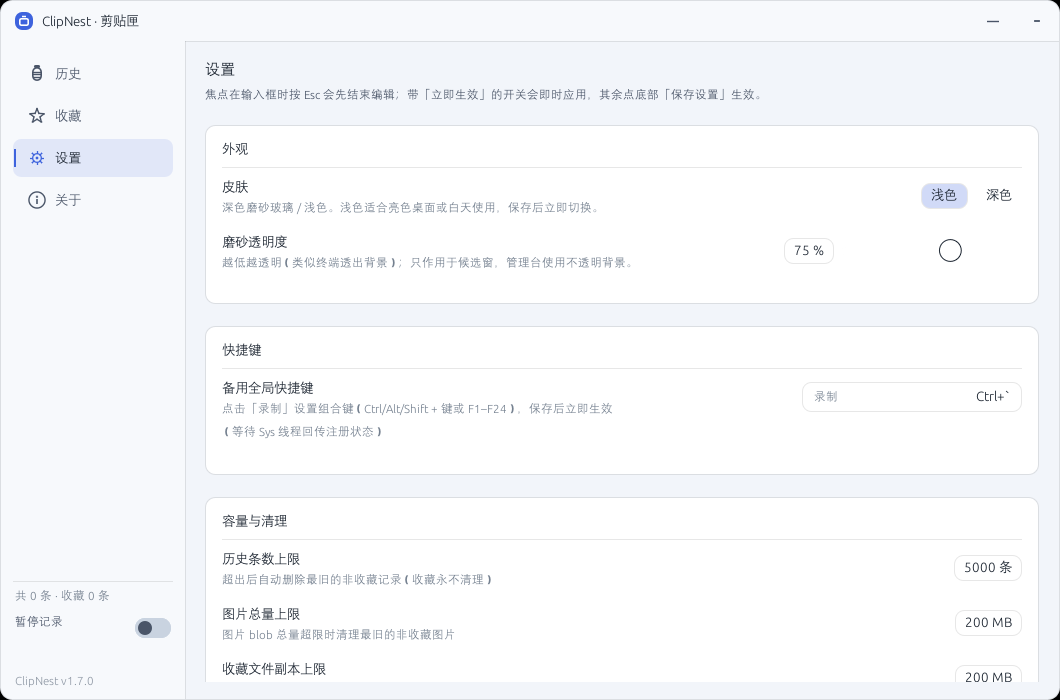
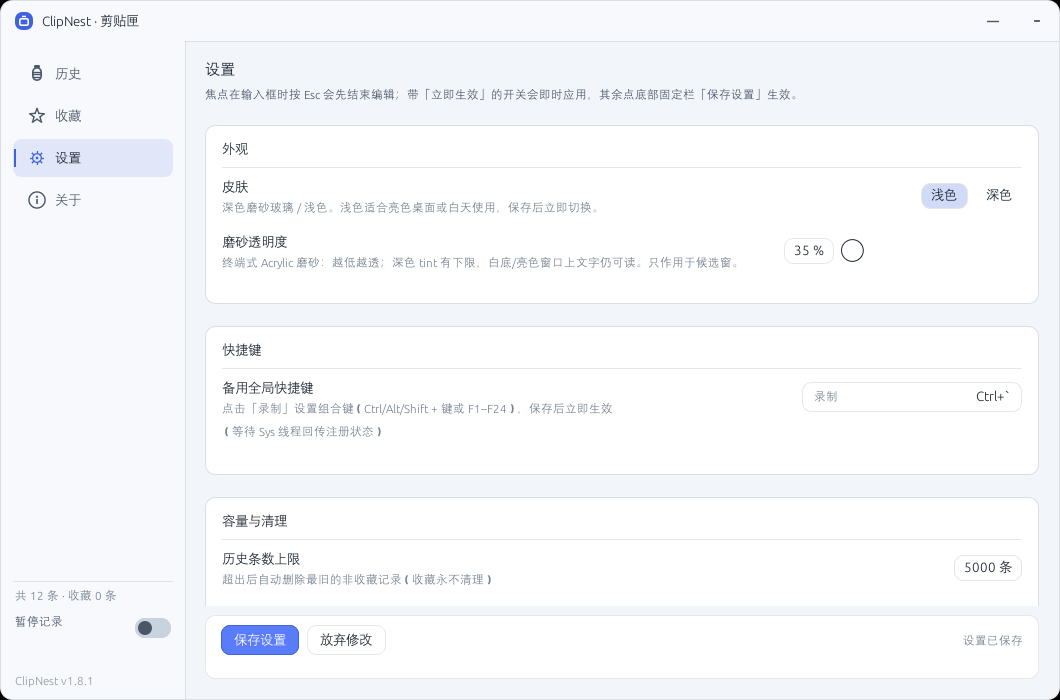
feat(settings): 设置页底部固定保存栏，不必滚动到底部 (v1.8.1)

diff --git a/src/ui/pages/settings.rs b/src/ui/pages/settings.rs
@@ -10,6 +10,11 @@ use eframe::egui::{self, Pos2, Rect, UiBuilder, Vec2};
 
 const MIB: f64 = 1024.0 * 1024.0;
 
+/// 底部固定保存栏高度（含卡片内边距）。
+const SAVE_BAR_HEIGHT: f32 = 64.0;
+/// 内容区与固定保存栏之间的留白。
+const SAVE_BAR_GAP: f32 = 12.0;
+
 /// 设置页入口。
 pub(crate) fn show(
     state: &mut UiState,
@@ -18,7 +23,9 @@ pub(crate) fn show(
     actions: &mut Vec<UiAction>,
 ) {
     let inner = rect.shrink(theme::PAGE_PAD);
-    ui.scope_builder(UiBuilder::new().max_rect(inner), |ui| {
+    let (content, footer) = split_page(inner);
+
+    ui.scope_builder(UiBuilder::new().max_rect(content), |ui| {
         egui::ScrollArea::vertical()
             .id_salt("settings_scroll")
             .auto_shrink([false, false])
@@ -27,7 +34,7 @@ pub(crate) fn show(
                 ui.label(theme::title("设置"));
                 ui.add_space(4.0);
                 ui.label(theme::aux(
-                    "焦点在输入框时按 Esc 会先结束编辑；带「立即生效」的开关会即时应用，其余点底部「保存设置」生效。",
+                    "焦点在输入框时按 Esc 会先结束编辑；带「立即生效」的开关会即时应用，其余点底部固定栏「保存设置」生效。",
                 ));
                 ui.add_space(18.0);
 
@@ -42,13 +49,26 @@ pub(crate) fn show(
                 ignore_section(state, ui);
                 ui.add_space(16.0);
                 data_section(state, ui, actions);
-                ui.add_space(20.0);
-                save_bar(state, ui, actions);
-                ui.add_space(12.0);
+                // 给滚动内容留出呼吸空间，避免最后一张卡片贴着固定栏。
+                ui.add_space(8.0);
             });
     });
+
+    save_bar(state, ui, footer, actions);
 }
 
+/// 把设置页内容区切成「可滚动内容 + 底部固定保存栏」。
+fn split_page(inner: Rect) -> (Rect, Rect) {
+    let footer = Rect::from_min_max(
+        Pos2::new(inner.left(), inner.bottom() - SAVE_BAR_HEIGHT),
+        inner.max,
+    );
+    let content = Rect::from_min_max(
+        inner.min,
+        Pos2::new(inner.right(), footer.top() - SAVE_BAR_GAP),
+    );
+    (content, footer)
+}
 
 /// 外观：深色 / 浅色皮肤（保存设置后即时切换）。
 fn appearance_section(state: &mut UiState, ui: &mut egui::Ui, actions: &mut Vec<UiAction>) {
@@ -571,46 +591,47 @@ fn data_section(state: &mut UiState, ui: &mut egui::Ui, actions: &mut Vec<UiActi
 // 保存栏
 // ---------------------------------------------------------------------------
 
-fn save_bar(state: &mut UiState, ui: &mut egui::Ui, actions: &mut Vec<UiAction>) {
+fn save_bar(state: &mut UiState, ui: &mut egui::Ui, rect: Rect, actions: &mut Vec<UiAction>) {
     let dirty = settings_dirty(state);
     let painter = ui.painter().clone();
-    let rect = ui.available_rect_before_wrap();
-    let y = rect.top() + 2.0;
-    painter.line_segment(
-        [Pos2::new(rect.left(), y), Pos2::new(rect.right(), y)],
-        theme::divider(),
+    // 固定栏浮在设置页底部：不随 ScrollArea 滚走，始终能看到「保存设置」。
+    painter.rect_filled(
+        rect,
+        egui::CornerRadius::same(theme::RADIUS_CARD),
+        theme::card(),
     );
-    ui.add_space(14.0);
-    ui.horizontal(|ui| {
-        if widgets::button(ui, "保存设置", widgets::ButtonKind::Primary).clicked() {
-            state.save_settings_draft(actions);
-        }
-        if widgets::button(ui, "放弃修改", widgets::ButtonKind::Secondary).clicked() {
-            state.settings_draft = state.settings.clone();
-            state.rec.recording = false;
-            state.rec.error = None;
-            state.toast("已放弃修改");
-        }
-        ui.add_space(8.0);
-        if dirty {
-            ui.label(
-                egui::RichText::new("有未保存的修改")
-                    .size(theme::SIZE_AUX)
-                    .color(theme::pinned()),
-            );
-        } else {
-            ui.label(theme::weak("设置已保存"));
-        }
+    painter.rect_stroke(
+        rect,
+        egui::CornerRadius::same(theme::RADIUS_CARD),
+        theme::divider(),
+        egui::StrokeKind::Inside,
+    );
+
+    let inner = rect.shrink2(Vec2::new(16.0, 10.0));
+    ui.scope_builder(UiBuilder::new().max_rect(inner), |ui| {
+        ui.horizontal(|ui| {
+            if widgets::button(ui, "保存设置", widgets::ButtonKind::Primary).clicked() {
+                state.save_settings_draft(actions);
+            }
+            if widgets::button(ui, "放弃修改", widgets::ButtonKind::Secondary).clicked() {
+                state.settings_draft = state.settings.clone();
+                state.rec.recording = false;
+                state.rec.error = None;
+                state.toast("已放弃修改");
+            }
+            ui.with_layout(egui::Layout::right_to_left(egui::Align::Center), |ui| {
+                if dirty {
+                    ui.label(
+                        egui::RichText::new("● 有未保存的修改")
+                            .size(theme::SIZE_AUX)
+                            .color(theme::pinned()),
+                    );
+                } else {
+                    ui.label(theme::weak("设置已保存"));
+                }
+            });
+        });
     });
-    // 自动自启状态提醒
-    if state.settings.autostart != state.settings_draft.autostart {
-        ui.add_space(4.0);
-        ui.label(
-            egui::RichText::new("开机自启开关已立即生效，其余需要保存")
-                .size(theme::SIZE_AUX)
-                .color(theme::text_weak()),
-        );
-    }
 }
 
 /// 设置草稿与已生效设置是否有差异。
@@ -621,5 +642,21 @@ fn settings_dirty(state: &UiState) -> bool {
     ) {
         (Ok(a), Ok(b)) => a != b,
         _ => false,
+    }
+}
+
+#[cfg(test)]
+mod tests {
+    use super::*;
+
+    #[test]
+    fn sticky_footer_splits_content_without_overlap() {
+        let inner = Rect::from_min_size(Pos2::new(10.0, 20.0), Vec2::new(600.0, 500.0));
+        let (content, footer) = split_page(inner);
+        assert_eq!(footer.bottom(), inner.bottom());
+        assert!((footer.height() - SAVE_BAR_HEIGHT).abs() < 0.01);
+        assert_eq!(content.top(), inner.top());
+        assert!(content.bottom() <= footer.top());
+        assert!((footer.top() - content.bottom() - SAVE_BAR_GAP).abs() < 0.01);
     }
 }

diff --git a/docs/ACCEPTANCE-RESULT.md b/docs/ACCEPTANCE-RESULT.md
@@ -352,3 +352,20 @@
 ### 校验
 - `cargo test --release` **143 passed / 0 failed / 1 ignored**；`cargo build --release` 0 warnings；`--selftest` PASS。
 - 动效均为纯 UI 绘制层，不影响剪贴板监听、粘贴时序与 SQLite 路径。
+
+---
+
+## 16. v1.8.1（2026-11-02，设置页固定保存栏）
+
+### 用户反馈
+- 设置项改完后，保存按钮在最底部，必须滚到最后才能点，使用不便。
+
+### 实现
+- `src/ui/pages/settings.rs` 把设置页拆成两块：上方 `ScrollArea` 放所有设置卡片，下方 64px 高的**固定操作栏**始终可见。
+- 固定栏使用卡片底色 + 边框，左侧「保存设置 / 放弃修改」，右侧始终显示「● 有未保存的修改」或「设置已保存」；不再依赖滚动位置。
+- 内容区底边预留 12px 间距，滚动内容不会钻到固定栏下面；设置页顶部提示文案同步改为「底部固定栏」。
+- 新增 `split_page()` 纯函数与 `sticky_footer_splits_content_without_overlap` 单测，锁定固定栏高度、底部对齐、内容不重叠。
+
+### 校验
+- `cargo test --release` **144 passed / 0 failed / 1 ignored**；`cargo build --release` 0 warnings；`--selftest` PASS。
+- 截图：`target/settings_sticky.png`（顶部）与 `target/settings_scrolled.png`（滚动到底部后保存栏仍固定）；已更新 `docs/screenshots/manager-settings.png` / `manager-settings-scrolled.png`。

diff --git a/README.md b/README.md
@@ -166,6 +166,7 @@ clipnest.exe（单进程常驻）
 
 ## 更新记录
 
+- **v1.8.1**：设置页的「保存设置 / 放弃修改」改为**底部固定栏**，滚动到任何位置都能直接保存，不再需要滑到最底部；右侧始终显示「有未保存的修改 / 设置已保存」。
 - **v1.8.0**：新增一组**克制的动效**——候选窗 160ms 内容淡入（只做透明度，不移动窗口，不拖慢呼出）；Toast 淡入时上浮 6px；按钮/筛选条/搜索框/导航项的悬停、聚焦、选中改为 90–120ms 插值过渡；管理台左侧导航切页不再硬跳。没有窗口飞入/缩放等夸张动画，粘贴路径不变。
 - **v1.7.3**：修复候选窗按 ↑/↓ 移动选中项时的**闪烁**——键盘导航改为最小滚动（选中行在视口内不重排列表），选中高亮改为瞬时切换，不再 80ms 淡入淡出。
 - **v1.7.2**：重做「白底可读性」修复，**保留终端式磨砂透明感**——去掉内容区不透明底，改为给 Acrylic 深色 tint 一个 150/255 的下限（仍能透出背景模糊，白底上文字也清晰）；深色主题辅助文本保持提亮。
